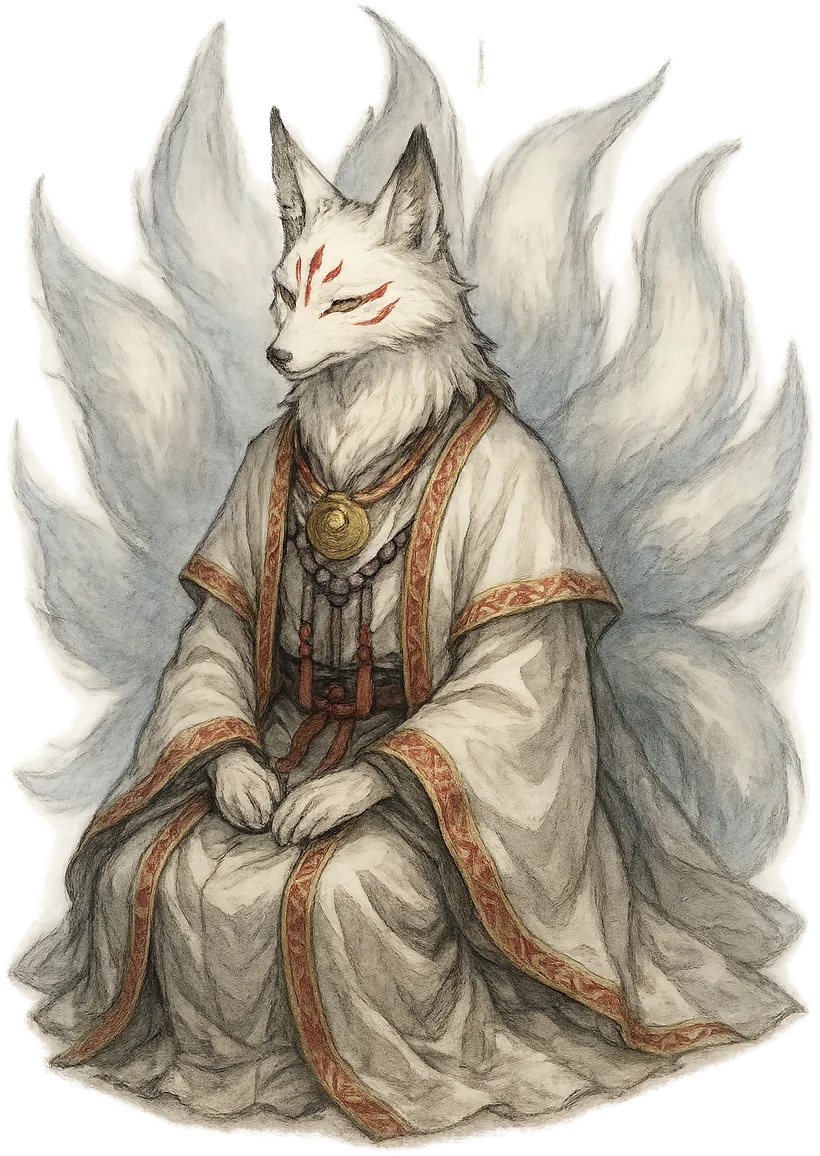
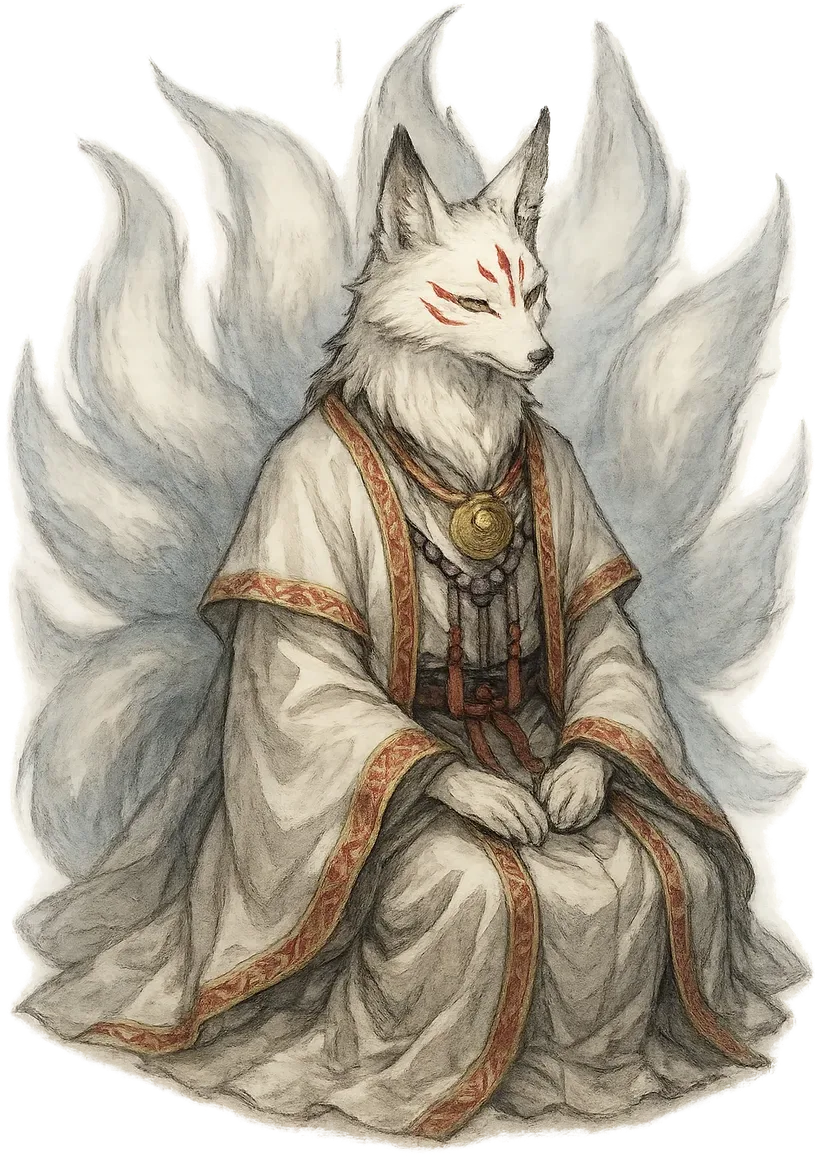
Deity faces the player + companionIntro beat before the tutorial
- shiranui.webp mirrored on disk so the seated kitsune god looks right,
  toward the player's avatar (no CSS transform juggling with the
  materialize/float keyframes).

- New onboarding beat "companionIntro" between the shrine cinematic's
  white-out and the tutorial: the granted companion stands over the LIVE
  village screen (light scrim + letterbox, village visible but locked),
  speaks its own take on the village (per-village flavor lines, a
  different angle than Shiranui's lore), promises "Shiranui asked me to
  watch over you", and asks to guide the player — then the tutorial UI
  (coach bubble + companion checklist) pops in.
  - Same IntroCinematic component in a companion mode (App mounts one
    gate for academyIntro | starter | companionIntro, keyed by mode so
    the remount resets the phase machine); its onComplete routes
    summon -> companionIntro -> training with the double-grant guard
    making the second pass grant-free.
  - Step registered in ONBOARDING_STEP_ORDER (relative order of existing
    steps unchanged), character type, daily-briefing target map; coach,
    companion checklist, and briefing all stay silent during the beat.
  - Refresh-safe: the step is persisted with the pet grant, so a reload
    replays the companion beat over the village.

Verified: 2557 root tests green (new script tests for the companion
lines), tsc + lint clean, App.tsx 8444 <= 8446 budget, live playthrough:
[…]

diff --git a/shinobij.client/src/features/intro-cinematic/IntroCinematic.tsx b/shinobij.client/src/features/intro-cinematic/IntroCinematic.tsx
@@ -31,6 +31,7 @@ import { useBodyScrollLock } from "../../lib/useBodyScrollLock";
 import {
     FOX_NAME,
     PRE_GIFT_LINES,
+    buildCompanionIntroLines,
     buildPostGiftLines,
     resolveCinematicLine,
     type CinematicLine,
@@ -88,13 +89,26 @@ export function IntroCinematic({
 
     useBodyScrollLock(true);
 
+    // Companion mode — the beat AFTER the shrine cinematic's white-out
+    // (onboardingStep === "companionIntro"): the granted pet stands over the
+    // live village screen, speaks its own village intro, and hands off to the
+    // tutorial. Same overlay component so App.tsx mounts exactly one gate.
+    const companionMode = character.onboardingStep === "companionIntro";
+    const companionPet = companionMode
+        ? character.pets.find((p) => p.id === character.activePetId) ?? character.pets[0] ?? STARTER_PETS[0].pet
+        : null;
+    const companionLines = useMemo(
+        () => (companionPet ? buildCompanionIntroLines(character.village, companionPet.name) : []),
+        [companionPet, character.village],
+    );
+
     const postLines = useMemo(() => buildPostGiftLines(character.village), [character.village]);
     const line: CinematicLine | null =
         phase.kind === "dialogue"
-            ? (phase.stage === "pre" ? PRE_GIFT_LINES : postLines)[phase.idx] ?? null
+            ? (companionMode ? companionLines : phase.stage === "pre" ? PRE_GIFT_LINES : postLines)[phase.idx] ?? null
             : null;
     const fullText = line
-        ? resolveCinematicLine(line.text, character.name, chosen?.pet.name ?? "")
+        ? resolveCinematicLine(line.text, character.name, chosen?.pet.name ?? companionPet?.name ?? "")
         : "";
 
     // Typewriter: ~83 chars/s, tap-to-complete. Reduced-motion shows lines whole.
@@ -144,15 +158,25 @@ export function IntroCinematic({
         // eslint-disable-next-line react-hooks/exhaustive-deps
     }, [phase.kind, reduced]);
 
+    // Companion mode ends without a white-out — the tutorial UI pops in the
+    // instant the overlay unmounts (the step flip is what removes it).
+    function finishCompanion() {
+        if (completedRef.current || !companionPet) return;
+        completedRef.current = true;
+        onComplete(companionPet);
+    }
+
     function advance() {
         if (phase.kind !== "dialogue") return;
         if (!typingDone) {
             completeLine();
             return;
         }
-        const lines = phase.stage === "pre" ? PRE_GIFT_LINES : postLines;
+        const lines = companionMode ? companionLines : phase.stage === "pre" ? PRE_GIFT_LINES : postLines;
         if (phase.idx + 1 < lines.length) {
             setPhase({ kind: "dialogue", stage: phase.stage, idx: phase.idx + 1 });
+        } else if (companionMode) {
+            finishCompanion();
         } else if (phase.stage === "pre") {
             setPhase({ kind: "choose" });
         } else {
@@ -164,7 +188,8 @@ export function IntroCinematic({
     // so Skip fast-forwards to the choice, then from the choice to the exit.
     function skip() {
         if (phase.kind !== "dialogue") return;
-        if (phase.stage === "pre") setPhase({ kind: "choose" });
+        if (companionMode) finishCompanion();
+        else if (phase.stage === "pre") setPhase({ kind: "choose" });
         else setPhase({ kind: "whiteout", revealing: false });
     }
 
@@ -185,15 +210,15 @@ export function IntroCinematic({
 
     return createPortal(
         <div
-            className={`icx-root ${revealing ? "is-revealing" : ""} ${rumbling && !reduced ? "is-rumbling" : ""}`}
+            className={`icx-root ${companionMode ? "is-companion" : ""} ${revealing ? "is-revealing" : ""} ${rumbling && !reduced ? "is-rumbling" : ""}`}
             style={{
                 "--icx-bg-landscape": `url(${shrineFallsLandscape})`,
                 "--icx-bg-portrait": `url(${shrineFallsPortrait})`,
             } as React.CSSProperties}
             onClick={advance}
         >
-            <div className="icx-scene"><div className="icx-scene-art" /></div>
-            {!liteFx && !reduced && (
+            {!companionMode && <div className="icx-scene"><div className="icx-scene-art" /></div>}
+            {!companionMode && !liteFx && !reduced && (
                 <div className="icx-motes" aria-hidden="true">
                     <div className="icx-rays" />
                     <div className="icx-mist" />
@@ -205,7 +230,9 @@ export function IntroCinematic({
 
             {/* Beat-driven color grade: violet omen during the Hollow Gate vision,
                 pale elegy light while the fox's spirit gutters. */}
-            <div className={`icx-grade ${line?.vision ? "is-omen" : ""} ${line?.fading ? "is-elegy" : ""}`} aria-hidden="true" />
+            {!companionMode && (
+                <div className={`icx-grade ${line?.vision ? "is-omen" : ""} ${line?.fading ? "is-elegy" : ""}`} aria-hidden="true" />
+            )}
 
             {/* Cinema letterbox bars — dialogue beats only, slide away for the
                 companion choice UI. Hidden on small screens (they eat space). */}
@@ -213,7 +240,7 @@ export function IntroCinematic({
             <div className={`icx-letterbox bottom ${inDialogue ? "is-on" : ""}`} aria-hidden="true" />
 
             {/* One-shot opening title card. */}
-            {!reduced && (
+            {!companionMode && !reduced && (
                 <div className="icx-title" aria-hidden="true">
                     <span className="icx-title-kicker">Beyond the Veil</span>
                     <span className="icx-title-main">The Awakening</span>
@@ -221,7 +248,16 @@ export function IntroCinematic({
             )}
 
             <div className={`icx-stagefill ${inDialogue && line?.speaker === "fox" ? "is-focus" : ""}`}>
-                {showActors && (
+                {showActors && companionMode && companionPet && (
+                    <div className={`icx-companion-pet ${!typingDone ? "is-talking" : ""}`}>
+                        <img
+                            src={petPoseImage(companionPet, sharedImages)}
+                            alt={companionPet.name}
+                            onError={(e) => { e.currentTarget.style.display = "none"; }}
+                        />
+                    </div>
+                )}
+                {showActors && !companionMode && (
                     <>
                         <div className={`icx-fox ${line?.fading ? "is-fading" : ""} ${line?.speaker === "fox" && !typingDone ? "is-talking" : ""}`}>
                             <img src={FOX_ART} alt={`${FOX_NAME}, the ancient spirit fox`} />

diff --git a/shinobij.client/src/App.tsx b/shinobij.client/src/App.tsx
@@ -7672,17 +7672,20 @@ export default function App() {
                     survives a refresh, and never fires for veterans. Admins skip
                     it (no real game role). */}
                 {character
-                    && (character.onboardingStep === "academyIntro" || character.onboardingStep === "starter")
+                    && (character.onboardingStep === "academyIntro" || character.onboardingStep === "starter" || character.onboardingStep === "companionIntro")
                     && character.name !== "Admin 1"
                     && character.name !== "Admin 2"
                     && (
                     <IntroCinematic
+                        key={character.onboardingStep === "companionIntro" ? "companion" : "summon"}
                         character={character}
                         sharedImages={sharedImages}
                         onComplete={(pet) => {
                             // Apply the pet's trait spawn-bonus exactly like a befriended
                             // encounter pet (applyPetTraitBonuses), then add it to the
-                            // roster, set it active, and hand off to stat training.
+                            // roster, set it active, and hand off to the companion's
+                            // village-intro beat (which in turn hands off to training —
+                            // the double-grant guard makes the second pass grant-free).
                             const trait = pet.trait ?? "Loyal";
                             const granted = applyPetTraitBonuses({ ...pet, trait }, trait);
                             const already = character.pets.some((p) => p.id === granted.id);
@@ -7690,7 +7693,7 @@ export default function App() {
                                 ...character,
                                 pets: already ? character.pets : [...character.pets, granted],
                                 activePetId: character.activePetId ?? granted.id,
-                                onboardingStep: "training",
+                                onboardingStep: character.onboardingStep === "companionIntro" ? "training" : "companionIntro",
                             };
                             setCharacter(updated);
                             // Push immediately so the companion isn't lost on a fast refresh

diff --git a/shinobij.client/src/features/intro-cinematic/intro-cinematic.css b/shinobij.client/src/features/intro-cinematic/intro-cinematic.css
@@ -21,6 +21,44 @@
     -webkit-user-select: none;
 }
 
+/* Companion-intro mode (onboardingStep "companionIntro"): the granted pet
+   speaks over the LIVE village screen, so the overlay is a light scrim, not
+   the opaque shrine scene. */
+.icx-root.is-companion {
+    background: rgba(2, 5, 14, 0.45);
+    animation: icx-companion-root-in 600ms ease both;
+}
+@keyframes icx-companion-root-in {
+    from { opacity: 0; }
+    to   { opacity: 1; }
+}
+.icx-companion-pet {
+    position: absolute;
+    left: clamp(3%, 7vw, 12%);
+    bottom: calc(clamp(26px, 5vh, 54px) + 18px);
+    width: clamp(150px, 22vmin, 250px);
+    pointer-events: none;
+    animation: icx-companion-in 700ms cubic-bezier(0.34, 1.56, 0.64, 1) both;
+}
+.icx-companion-pet img {
+    width: 100%;
+    display: block;
+    filter: drop-shadow(0 12px 16px rgba(0, 0, 0, 0.55));
+    transform-origin: 50% 100%;
+}
+.icx-companion-pet.is-talking img {
+    animation: icx-companion-talk 460ms ease-in-out infinite;
+}
+@keyframes icx-companion-in {
+    from { opacity: 0; transform: translateY(22px) scale(0.8); }
+    to   { opacity: 1; transform: translateY(0) scale(1); }
+}
+@keyframes icx-companion-talk {
+    0%, 100% { transform: rotate(0deg) translateY(0); }
+    30%      { transform: rotate(-1.8deg) translateY(-3px) scale(1.02, 0.98); }
+    70%      { transform: rotate(1.4deg) translateY(-1px); }
+}
+
 /* Once the white-out starts revealing the village beneath, the overlay becomes
    a pure pass-through: scene layers unmount visually and clicks fall through. */
 .icx-root.is-revealing {
@@ -697,6 +735,7 @@
     .icx-avatar-name { font-size: 10.5px; padding: 2px 9px; }
     .icx-vision { top: 6%; width: min(26vh, 66vw); }
     .icx-letterbox { display: none; }
+    .icx-companion-pet { left: 3%; bottom: 205px; width: clamp(100px, 28vw, 150px); }
     .icx-dialogue { min-height: 138px; padding: 12px 14px 24px; bottom: calc(16px + env(safe-area-inset-bottom, 0px)); }
     .icx-line { font-size: 15px; }
     .icx-pet-grid { grid-template-columns: repeat(auto-fit, minmax(158px, 1fr)); gap: 9px; }
@@ -730,7 +769,9 @@
     .icx-line,
     .icx-vision,
     .icx-advance,
-    .icx-title {
+    .icx-title,
+    .icx-companion-pet,
+    .icx-companion-pet img {
         animation: none;
     }
     .icx-fox img { transition: none; }

diff --git a/shinobij.client/src/features/intro-cinematic/introCinematicScript.ts b/shinobij.client/src/features/intro-cinematic/introCinematicScript.ts
@@ -91,3 +91,24 @@ export function buildPostGiftLines(village: string): CinematicLine[] {
 export function resolveCinematicLine(text: string, playerName: string, petName: string): string {
     return text.replaceAll("{name}", playerName).replaceAll("{pet}", petName);
 }
+
+// ── Companion intro (the beat between the shrine cinematic's white-out and
+// the tutorial UI): the chosen companion stands over the live village screen,
+// gives its own take on the village, and asks to guide the player. Different
+// angle than Shiranui's lore lines so the two beats never repeat each other.
+export const COMPANION_VILLAGE_FLAVOR: Record<string, string> = {
+    "Stormveil Village": "Storm towers, rain-slick roofs, thunder that never really sleeps... they say the strong make their own rules here.",
+    "Ashen Leaf Village": "Ember groves, ash roads, clan halls older than memory... tradition runs deeper than the roots here.",
+    "Frostfang Village": "Snow gates, stone holds, a cold that bites... but no village stands closer together than this one.",
+    "Moonshadow Village": "Lantern paths, hidden courts, streets that keep their secrets... half of what happens here is never seen.",
+};
+
+export function buildCompanionIntroLines(village: string, petName: string): CinematicLine[] {
+    const flavor = COMPANION_VILLAGE_FLAVOR[village]
+        ?? "I can already tell there's more to this place than meets the eye.";
+    return [
+        { speaker: "fox", label: petName, text: `So THIS is ${village}! ${flavor}` },
+        { speaker: "fox", label: petName, text: "Shiranui asked me to watch over you — and I will. We're partners now, you and me." },
+        { speaker: "fox", label: petName, text: "Come on, {name} — let me guide you through this world. Follow my lead, and we'll make a legend of you yet!" },
+    ];
+}

diff --git a/shinobij.client/src/features/intro-cinematic/introCinematicScript.test.ts b/shinobij.client/src/features/intro-cinematic/introCinematicScript.test.ts
@@ -6,9 +6,11 @@ import test from "node:test";
 import assert from "node:assert/strict";
 import { villages } from "../../data/sectors";
 import {
+    COMPANION_VILLAGE_FLAVOR,
     FOX_NAME,
     PRE_GIFT_LINES,
     VILLAGE_LORE_LINES,
+    buildCompanionIntroLines,
     buildPostGiftLines,
     resolveCinematicLine,
 } from "./introCinematicScript";
@@ -47,8 +49,23 @@ test("post-gift script ends on the fading 'save this land' farewell", () => {
     }
 });
 
+test("every village has companion-intro flavor and the beat asks to guide", () => {
+    for (const village of villages) {
+        assert.ok(COMPANION_VILLAGE_FLAVOR[village], `missing COMPANION_VILLAGE_FLAVOR for "${village}"`);
+        const lines = buildCompanionIntroLines(village, "Cinder Cub");
+        assert.ok(lines.length >= 3);
+        for (const line of lines) {
+            assert.ok(line.text.trim().length > 0);
+            assert.equal(line.label, "Cinder Cub");
+        }
+        assert.match(lines[lines.length - 1].text, /guide/i);
+    }
+    // Unknown villages fall back gracefully instead of crashing the beat.
+    assert.ok(buildCompanionIntroLines("Nowhere Village", "Pup").length >= 3);
+});
+
 test("placeholders resolve with no braces left behind", () => {
-    const all = [...PRE_GIFT_LINES, ...buildPostGiftLines(villages[0])];
+    const all = [...PRE_GIFT_LINES, ...buildPostGiftLines(villages[0]), ...buildCompanionIntroLines(villages[0], "Cinder Cub")];
     for (const line of all) {
         const resolved = resolveCinematicLine(line.text, "Testkage", "Cinder Cub");
         assert.ok(!resolved.includes("{"), `unresolved placeholder in: ${resolved}`);

diff --git a/shinobij.client/src/lib/onboarding-step.ts b/shinobij.client/src/lib/onboarding-step.ts
@@ -2,8 +2,9 @@
 // stored `character.onboardingStep` (which may be a legacy value from an older
 // save) onto the canonical "Academy Path" flow:
 //
-//   academyIntro -> starter -> training -> jutsu -> jutsuLoadout -> inventory
-//   -> academySpar -> cafeteria -> firstMission -> logbook -> sectorReturn -> done
+//   academyIntro -> starter -> companionIntro -> training -> jutsu
+//   -> jutsuLoadout -> inventory -> academySpar -> cafeteria -> firstMission
+//   -> logbook -> sectorReturn -> done
 //
 // Legacy saves used a shorter flow ("starter → spar → tour → training → jutsu
 // -> logbook -> done"). We never want to break those, so:
@@ -32,16 +33,17 @@ export function normalizeOnboardingStep(
 export const ONBOARDING_STEP_ORDER: Record<CanonicalOnboardingStep, number> = {
     academyIntro: 0,
     starter: 1,
-    training: 2,
-    jutsu: 3,
-    jutsuLoadout: 4,
-    inventory: 5,
-    academySpar: 6,
-    cafeteria: 7,
-    firstMission: 8,
-    logbook: 9,
-    sectorReturn: 10,
-    done: 11,
+    companionIntro: 2,
+    training: 3,
+    jutsu: 4,
+    jutsuLoadout: 5,
+    inventory: 6,
+    academySpar: 7,
+    cafeteria: 8,
+    firstMission: 9,
+    logbook: 10,
+    sectorReturn: 11,
+    done: 12,
 };
 
 export function onboardingStepAtLeast(

diff --git a/shinobij.client/src/lib/journey-guide.ts b/shinobij.client/src/lib/journey-guide.ts
@@ -34,10 +34,10 @@ const COMPANION_STEP_TITLES: [CanonicalOnboardingStep, string][] = [
 ];
 
 /** The tutorial checklist, or null when the tutorial isn't in a coach beat
- *  (pre-cinematic steps and "done" both return null → panel hidden). */
+ *  (cinematic steps and "done" both return null → panel hidden). */
 export function buildCompanionSteps(character: Character): CompanionStep[] | null {
     const step = normalizeOnboardingStep(character.onboardingStep ?? "");
-    if (step === "done" || step === "academyIntro" || step === "starter") return null;
+    if (step === "done" || step === "academyIntro" || step === "starter" || step === "companionIntro") return null;
     const current = ONBOARDING_STEP_ORDER[step];
     return COMPANION_STEP_TITLES.map(([id, title]) => ({
         id,

diff --git a/shinobij.client/src/components/OnboardingCoach.tsx b/shinobij.client/src/components/OnboardingCoach.tsx
@@ -275,8 +275,9 @@ export function OnboardingCoach({
         ? bannerText?.length ?? 0
         : typed.text === bannerText ? typed.count : 0;
 
-    // academyIntro + starter belong to the intro cinematic, not the coach.
-    if (step === "done" || step === "starter" || step === "academyIntro") return null;
+    // academyIntro/starter/companionIntro belong to the intro cinematic and
+    // the companion's village-intro beat, not the coach.
+    if (step === "done" || step === "starter" || step === "academyIntro" || step === "companionIntro") return null;
 
     const skip = () => updateCharacter({ ...character, onboardingStep: "done" });
     const guideArt = guidePet ? petPoseImage(guidePet, sharedImages) : "";

diff --git a/shinobij.client/src/lib/daily-briefing-core.ts b/shinobij.client/src/lib/daily-briefing-core.ts
@@ -65,6 +65,7 @@ export interface RecoInput {
 const ONBOARDING_TARGET: Record<string, { screen: Screen; label: string }> = {
     academyIntro: { screen: "village", label: "Answer the spirit fox's summons" },
     starter: { screen: "village", label: "Choose your companion" },
+    companionIntro: { screen: "village", label: "Listen to your companion" },
     training: { screen: "training", label: "Start stat training" },
     jutsu: { screen: "jutsuTraining", label: "Train a starter jutsu" },
     jutsuLoadout: { screen: "profile", label: "Equip your jutsu loadout" },

diff --git a/shinobij.client/src/types/character.ts b/shinobij.client/src/types/character.ts
@@ -580,6 +580,9 @@ export type Character = {
     onboardingStep?:
         | "academyIntro"
         | "starter"
+        // post-gift beat: the companion introduces the village over the live
+        // village screen, then hands off to "training"
+        | "companionIntro"
         | "academySpar"
         | "training"
         | "jutsu"
